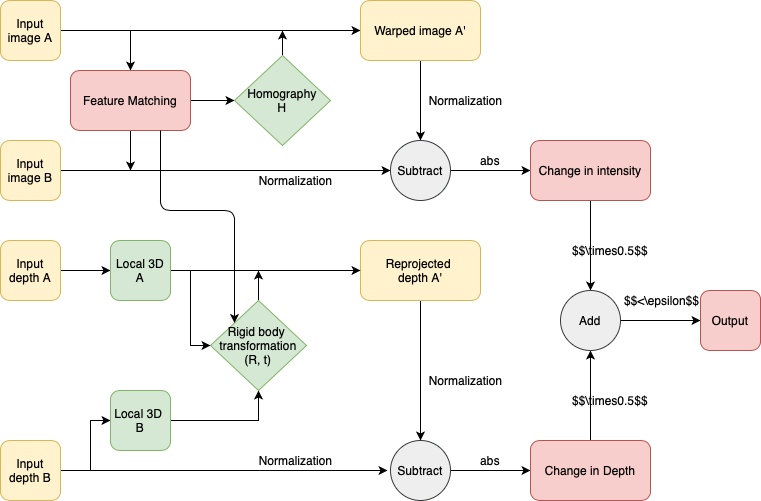
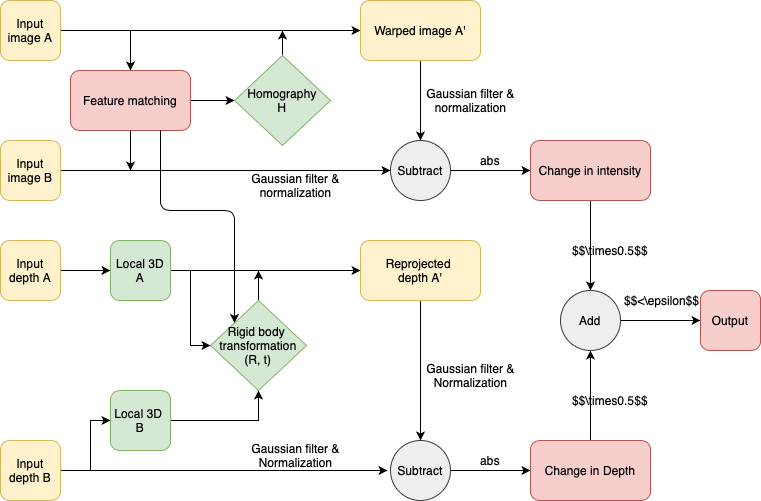
update result

diff --git a/html/proj/results.html b/html/proj/results.html
@@ -35,6 +35,30 @@
   </p>
   <h3> Motion Detection</h3>
   <p>
+  For motion detection, there are four main parts shaded in pink in the diagram:
+  feature matching, detecting changes in intensity, detecting changes in depth, and
+  combination of changes in intensity and depth. To match the features, we use FAST
+  detector, BRIEF descriptor, and BFMatcher with 2 nearest neighbors and apply ratio
+  test to determine the good matches. To detect changes in intensity, we run ransac
+  on the matched features to estimate homography matrix H and use H to warp image A
+  into image B's projection plane to obtain A'. Apply Gaussian filter and normalize
+  A' and B, then do the subtraction to get the change. To detect changes in intensity,
+  we run first convert the feature points to its local 3D coordinates using depth
+  arrays A and B (the have the same name because the math and scheme are the same).
+  Then we can estimate the rigid body transformation (R, t) of the camera by runing ransac
+  on the local 3D correspondence points. Depth A is reprojected into B's local frame
+  A'. Apply Gaussian filter and normalize A' and B, then do the subtraction. The
+  absolute value of the difference is the change in depth. To combine the result of
+  changes in intensity and depth, simply do a linear combination, or average of change
+  in intensity and depth. Applying a threshold produces the output.
+  </p>
+  <br>
+  <p>
+    <center>
+      <img class="round" style="width:90%" src="./img/flowchart.png">
+    </center>
+  </p>
+  <p>
     The input gray-scale images and depth arrays are obtained from an Intel
     RealSense depth camera D435i, which is mounted on a robot car (designed by
     the Robot Open Autonomous Racing team) about $10cm$ above the ground.
